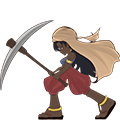
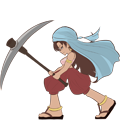
- Enable palete swap.

diff --git a/PlayScene.cpp b/PlayScene.cpp
@@ -133,31 +133,6 @@ void PlayScene::__InitComponents() {
 		ResourceManager::Get().GetCachedImage(L"ui_tile_background")
 	);
 
-	// Player Sprite Bindings
-	_player->BindImage(
-		ResourceManager::Get().GetImage(L"Razanya1_down01"),
-		L"down1"
-	);
-	_player->BindImage(
-		ResourceManager::Get().GetImage(L"Razanya1_down02"),
-		L"down2"
-	);
-	_player->BindImage(
-		ResourceManager::Get().GetImage(L"Razanya1_Left01"),
-		L"left1"
-	);
-	_player->BindImage(
-		ResourceManager::Get().GetImage(L"Razanya1_Left02"),
-		L"left2"
-	);
-	_player->BindImage(
-		ResourceManager::Get().GetImage(L"Razanya1_Right01"),
-		L"right1"
-	);
-	_player->BindImage(
-		ResourceManager::Get().GetImage(L"Razanya1_Right02"),
-		L"right2"
-	);
 	_player->BindImage(
 		ResourceManager::Get().GetImage(L"lazanya_ingame_headstone"),
 		L"headstone"
@@ -1174,6 +1149,8 @@ void PlayScene::__TriggerNPCsAnimations() {
 }
 
 void PlayScene::__ResetGame() {
+	
+	// Reset states
 	_reverseArrowKeys = false;
 	_started = false;
 	_ended = false;
@@ -1211,6 +1188,47 @@ void PlayScene::__ResetGame() {
 	// Reset Player State
 	_player = _player->GetPlayer();
 	_player->Reset();
+
+	// Setup the Razanya index
+	_currRazanyaIndex = GetGameDataHub().GetCurrentGeneration() % 3;
+
+	// Player Sprite Bindings
+	_player->BindImage(
+		ResourceManager::Get().GetImage(L"Razanya" + 
+			std::to_wstring(_currRazanyaIndex) +
+			L"_down01"),
+		L"down1"
+	);
+	_player->BindImage(
+		ResourceManager::Get().GetImage(L"Razanya" + 
+			std::to_wstring(_currRazanyaIndex) +
+			L"_down02"),
+		L"down2"
+	);
+	_player->BindImage(
+		ResourceManager::Get().GetImage(L"Razanya" + 
+			std::to_wstring(_currRazanyaIndex) +
+			L"_Left01"),
+		L"left1"
+	);
+	_player->BindImage(
+		ResourceManager::Get().GetImage(L"Razanya" + 
+			std::to_wstring(_currRazanyaIndex) +
+			L"_Left02"),
+		L"left2"
+	);
+	_player->BindImage(
+		ResourceManager::Get().GetImage(L"Razanya" + 
+			std::to_wstring(_currRazanyaIndex) +
+			L"_Right01"),
+		L"right1"
+	);
+	_player->BindImage(
+		ResourceManager::Get().GetImage(L"Razanya" + 
+			std::to_wstring(_currRazanyaIndex) +
+			L"_Right02"),
+		L"right2"
+	);
 
 	// Game Play Initialization
 	_player->SetPosition(2, 4);

diff --git a/EntryScene.cpp b/EntryScene.cpp
@@ -52,12 +52,9 @@ EntryScene::EntryScene()
 	);
 
 	//lazanya
+	std::wstring entryRazanyaImageName{};
 	_mainComs.lazanya = new Container(1200,150,600,950);
 	_mainComs.lazanya->SetSizeFitImage(true);
-	_mainComs.lazanya->SetImage(
-		ResourceManager::Get().GetImage(L"Main_character.razanya.original.001")
-	);
-	;
 	_mainComs.lazanya->SetPositionLayout(PositionLayout::LAYOUT_ABSOLUTE);
 
 	//age
@@ -171,6 +168,12 @@ void EntryScene::Draw()
 
 void EntryScene::InitScene()
 {
+	_mainComs.lazanya->SetImage(
+		ResourceManager::Get().GetImage(
+			L"entry_razanya_" + 
+			std::to_wstring(GetGameDataHub().GetCurrentGeneration() % 3)
+		)
+	);
 	_mainComs.age->SetText(
 		_WStringAgeIndex(GetGameDataHub().GetCurrentGeneration()).c_str()
 	);

diff --git a/PlayScene.h b/PlayScene.h
@@ -98,6 +98,8 @@ class PlayScene :public IScene
 	class PlayerBricksInteractionSystem* _playerBrickInteractionSystem;
 
 /* Game States */
+	int _currRazanyaIndex{ 0 };
+
 	int _mothersScore{ 60 };
 	int _gloryOfFamilyScore{ 100 };
 
